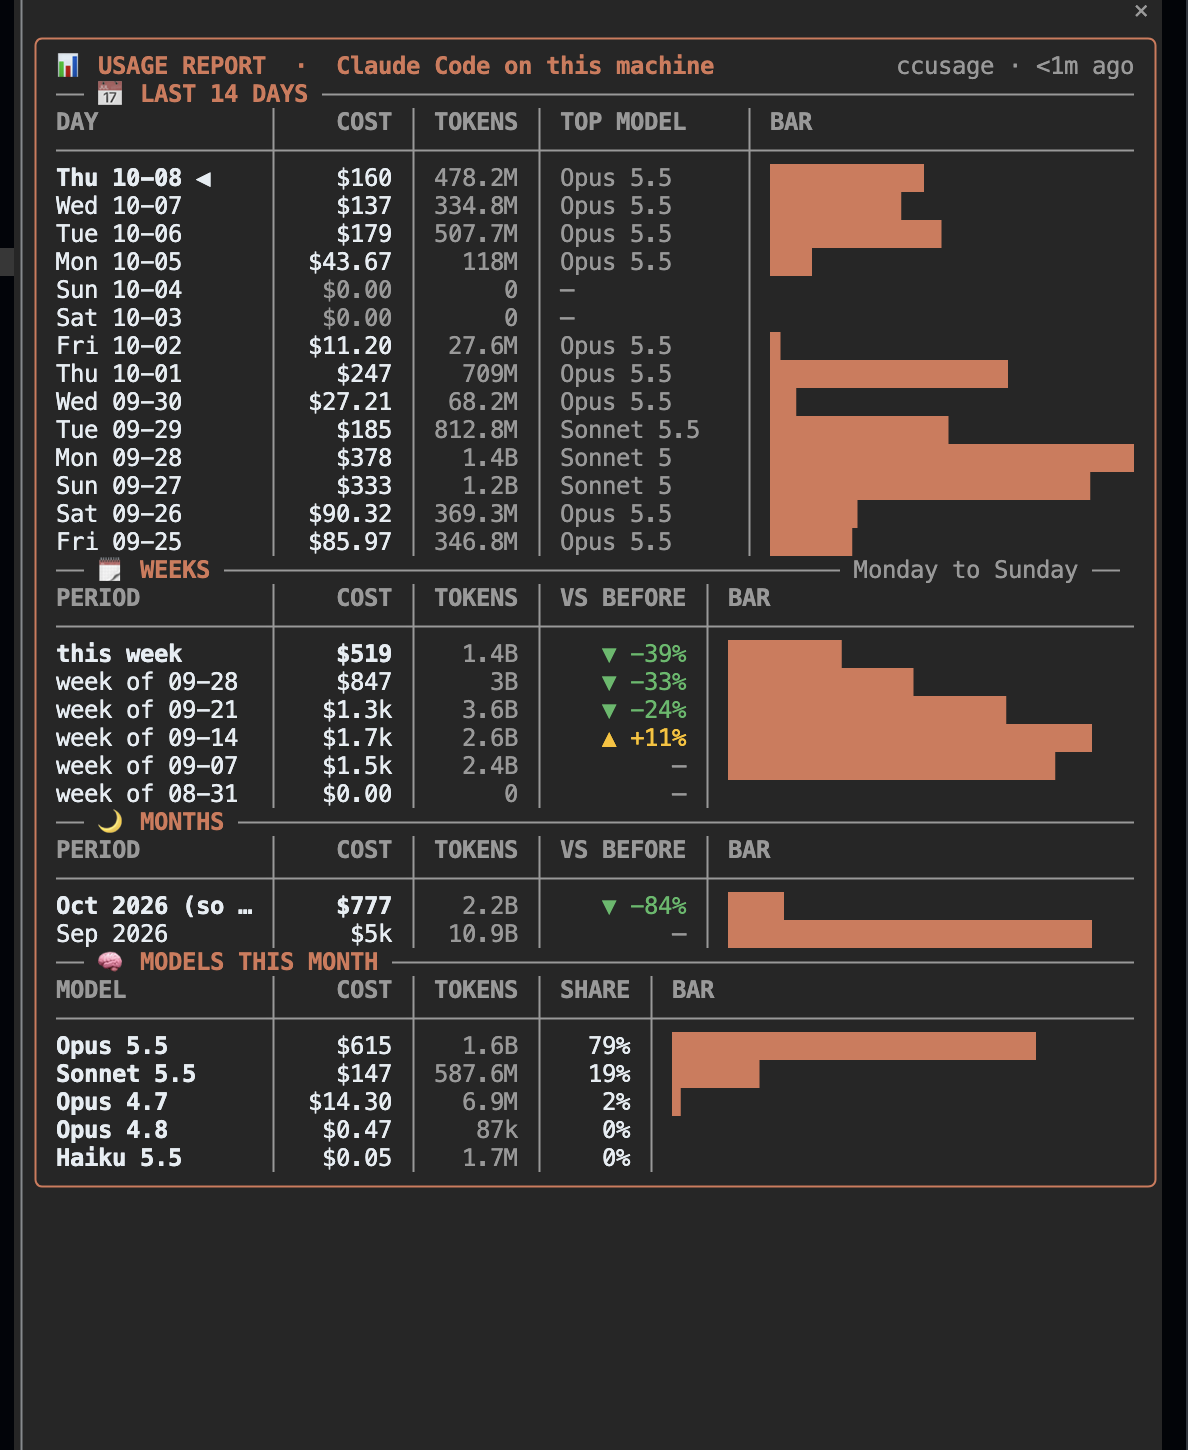
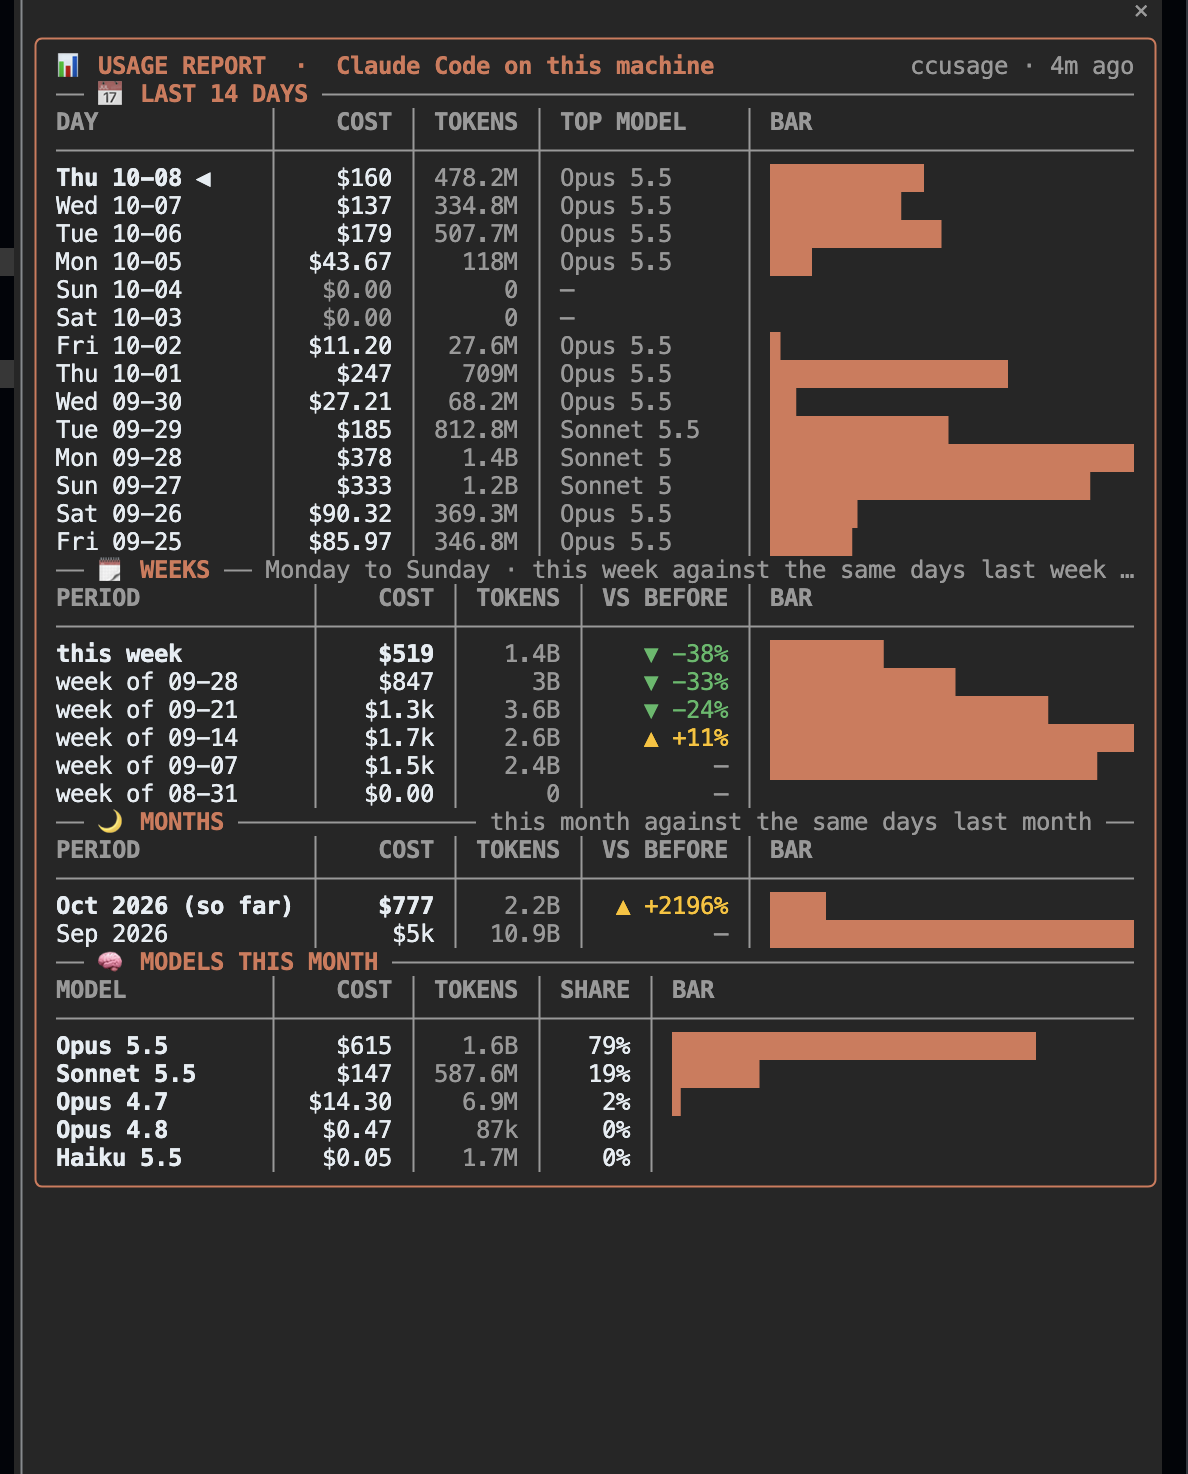
Vitals 0.7.3: i giorni prima dello storico non valgono zero
ccusage vede solo i transcript che Claude Code conserva (cleanupPeriodDays,
30 giorni di default): i giorni e le settimane prima del primo giorno con
dati mostrano "no data" invece di $0, e i periodi incompleti non vengono
confrontati, nel report come nella banda. Il report dice da quando partono
i dati e quando ccusage sta leggendo. Screenshot del report aggiornato.

Changed region(s): [[0.0, 0.031, 0.9655, 0.8069], [0.654, 0.1862, 0.9655, 0.3414]]

diff --git a/plugins/vitals/hooks/report-view.tsx b/plugins/vitals/hooks/report-view.tsx
@@ -1,6 +1,6 @@
 import type { HistoryProblem, UsageHistory } from '../types'
 import { ago, count, delta, money, prettyModel } from './format'
-import { REPORT_WEEKS, addDays, change, localDate, modelShares, monthSpans, periods, weekSpans } from './report'
+import { REPORT_WEEKS, addDays, change, firstDate, localDate, modelShares, monthSpans, periods, weekSpans } from './report'
 import { ACCENT, blocks, rule, table } from './ui'
 import type { Canvas, Cell, Column } from './ui'
 
@@ -46,13 +46,23 @@ const MODEL_COLUMNS: Column[] = [
 ]
 
 /** The usage report: the last 14 days, the last 6 weeks, this month and the last, and the models. */
-export const drawReport = (canvas: Canvas, room: number, now: number, history: UsageHistory | null, problem: HistoryProblem | null) => {
+export const drawReport = (
+  canvas: Canvas,
+  room: number,
+  now: number,
+  history: UsageHistory | null,
+  problem: HistoryProblem | null,
+  isReading: boolean,
+) => {
   const { Box, Text } = canvas.els
   const inner = room - FRAME_CELLS
   if (history === null) {
     return <Text dimColor>{problem === null ? 'Reading usage history…' : `No usage history: ${problem.reason}`}</Text>
   }
   const today = localDate(now)
+  // Days before the history's first one have no data at all: not zero spent, nothing known.
+  const first = firstDate(history.days) ?? today
+  const noData: Cell = { text: 'no data', dim: true }
   const barCells = Math.max(6, inner - 14 - 7 - 6 - 12 - 3 * 4)
   const byDate = new Map(history.days.map(d => [d.date, d]))
   const dates = Array.from({ length: 14 }, (_, i) => addDays(today, -i))
@@ -60,6 +70,7 @@ export const drawReport = (canvas: Canvas, room: number, now: number, history: U
   const dayRows = dates.map((date): Record<string, Cell> => {
     const day = byDate.get(date)
     const top = day?.models.slice().sort((a, b) => b.costUsd - a.costUsd)[0]
+    if (date < first) return { DAY: { text: `${weekday(date)} ${date.slice(5)}`, dim: true }, COST: noData }
     return {
       DAY: { text: `${weekday(date)} ${date.slice(5)}${date === today ? ' ◀' : ''}`, bold: date === today },
       COST: { text: money(day?.costUsd ?? 0), dim: day === undefined },
@@ -72,17 +83,26 @@ export const drawReport = (canvas: Canvas, room: number, now: number, history: U
   const [, thisWeek, thisMonth] = periods(history.days, today)
   const weeks = weekSpans(history.days, today, REPORT_WEEKS)
   const weekTop = Math.max(0, ...weeks.map(w => w.costUsd))
-  const weekRows = weeks.map((w, i): Record<string, Cell> => ({
-    PERIOD: { text: i === 0 ? 'this week' : `week of ${w.from.slice(5)}`, bold: i === 0 },
-    COST: { text: money(w.costUsd), bold: i === 0 },
-    TOKENS: { text: count(w.tokens), dim: true },
-    'VS BEFORE': deltaCell(w.costUsd, i === 0 ? thisWeek?.before?.costUsd : weeks[i + 1]?.costUsd),
-    BAR: barCell(w.costUsd, weekTop, barCells),
-  }))
+  const weekRows = weeks.map((w, i): Record<string, Cell> => {
+    const name = i === 0 ? 'this week' : `week of ${w.from.slice(5)}`
+    if (w.to < first) return { PERIOD: { text: name, dim: true }, COST: noData }
+    const before = weeks[i + 1]
+    const beforeCost = i === 0 ? thisWeek?.before?.costUsd : before !== undefined && before.from >= first ? before.costUsd : undefined
+    return {
+      PERIOD: { text: `${name}${w.from < first ? ` (from ${first.slice(5)})` : ''}`, bold: i === 0 },
+      COST: { text: money(w.costUsd), bold: i === 0 },
+      TOKENS: { text: count(w.tokens), dim: true },
+      'VS BEFORE': w.from < first ? { text: '—', dim: true } : deltaCell(w.costUsd, beforeCost),
+      BAR: barCell(w.costUsd, weekTop, barCells),
+    }
+  })
   const months = monthSpans(history.days, today)
   const monthTop = Math.max(0, ...months.map(m => m.costUsd))
   const monthRows = months.map((m, i): Record<string, Cell> => ({
-    PERIOD: { text: `${MONTHS[Number(m.from.slice(5, 7)) - 1] ?? m.from} ${m.from.slice(0, 4)}${i === 0 ? ' (so far)' : ''}`, bold: i === 0 },
+    PERIOD: {
+      text: `${MONTHS[Number(m.from.slice(5, 7)) - 1] ?? m.from} ${m.from.slice(0, 4)}${i === 0 ? ' (so far)' : m.from < first ? ` (from ${first.slice(5)})` : ''}`,
+      bold: i === 0,
+    },
     COST: { text: money(m.costUsd), bold: i === 0 },
     TOKENS: { text: count(m.tokens), dim: true },
     'VS BEFORE': i === 0 ? deltaCell(m.costUsd, thisMonth?.before?.costUsd) : { text: '—', dim: true },
@@ -102,7 +122,9 @@ export const drawReport = (canvas: Canvas, room: number, now: number, history: U
     <Box flexDirection="column" borderStyle="round" borderColor={ACCENT} paddingX={1}>
       <Box flexDirection="row" justifyContent="space-between">
         <Text bold color={ACCENT}>{'📊 USAGE REPORT  ·  Claude Code on this machine'}</Text>
-        <Text dimColor>{`ccusage · ${ago(now - history.at)} ago${problem !== null && problem.at > history.at ? ' · ⚠ stale' : ''}`}</Text>
+        <Text dimColor>
+          {`ccusage · data from ${first.slice(5)} · ${isReading ? 'reading…' : `${ago(now - history.at)} ago`}${problem !== null && problem.at > history.at ? ' · ⚠ stale' : ''}`}
+        </Text>
       </Box>
       {rule(canvas.els, '📅 LAST 14 DAYS', '', inner)}
       {table(canvas.els, DAY_COLUMNS, dayRows, inner)}

diff --git a/plugins/vitals/hooks/report.ts b/plugins/vitals/hooks/report.ts
@@ -120,7 +120,13 @@ export type Period = { name: string; now: Span; before: Span | null; from: strin
  * Today against yesterday, this week against last week's same days, this month against last
  * month's same days: the comparison is like for like however far into the period we are.
  */
+/** The first day the history holds: Claude Code keeps transcripts for `cleanupPeriodDays` (30 by default). */
+export const firstDate = (days: DayUsage[]) => days.reduce<string | null>((first, d) => (first === null || d.date < first ? d.date : first), null)
+
 export const periods = (days: DayUsage[], today: string): Period[] => {
+  // A period that starts before the history does is not known, so it is not compared against.
+  const first = firstDate(days)
+  const known = (from: string, to: string) => (first === null || from < first ? null : span(days, from, to))
   const week = weekStart(today)
   const intoWeek = Math.round((Date.parse(today) - Date.parse(week)) / 86_400_000)
   const month = monthStart(today)
@@ -128,9 +134,9 @@ export const periods = (days: DayUsage[], today: string): Period[] => {
   const intoMonth = Number(today.slice(8, 10)) - 1
   const lastMonthSame = addDays(lastMonth, intoMonth) < month ? addDays(lastMonth, intoMonth) : addDays(month, -1)
   return [
-    { name: 'today', now: span(days, today, today), before: span(days, addDays(today, -1), addDays(today, -1)), from: today, to: today },
-    { name: 'week', now: span(days, week, today), before: span(days, addDays(week, -7), addDays(week, intoWeek - 7)), from: week, to: today },
-    { name: 'month', now: span(days, month, today), before: span(days, lastMonth, lastMonthSame), from: month, to: today },
+    { name: 'today', now: span(days, today, today), before: known(addDays(today, -1), addDays(today, -1)), from: today, to: today },
+    { name: 'week', now: span(days, week, today), before: known(addDays(week, -7), addDays(week, intoWeek - 7)), from: week, to: today },
+    { name: 'month', now: span(days, month, today), before: known(lastMonth, lastMonthSame), from: month, to: today },
   ]
 }
 

diff --git a/plugins/vitals/hooks/vitals.test.tsx b/plugins/vitals/hooks/vitals.test.tsx
@@ -236,7 +236,7 @@ test('ccusage days fold into today, week and month against the same days before'
   expect(week?.now.costUsd).toBe(100)
   expect(week?.before?.costUsd).toBe(40) // Mon 28 Sep to Thu 1 Oct, not Fri 2 Oct's 99
   expect(month?.now.costUsd).toBe(219)
-  expect(month?.before?.costUsd).toBe(0) // 1 to 8 September: the September days on record are later
+  expect(month?.before).toBe(null) // 1 to 8 September comes before the history's first day: unknown, not zero
 })
 
 for (const surface of ['terminal', 'desktop'] as const) {
@@ -348,6 +348,8 @@ for (const surface of ['terminal', 'desktop'] as const) {
     const ui = await $.ui.mount({ plugin: 'vitals', surface, component: 'Pane', requestId: 'vitals-report', props: { title: 'r', isFocused: false, bodyColumns: 120, placement: 'dock' as const, scroll: { offset: 0, bodyRows: 60 }, view: {} } })
     const pane = (await ui.find({ text: /./ }))?.text ?? ''
     for (const text of ['📊 USAGE REPORT', 'Thu 10-08 ◀', '$50.00', 'this week', '▲ +150%', 'Oct 2026 (so far)', 'Sonnet 5.5']) expect(pane).toContain(text)
+    // The history starts on 28 September: earlier days and weeks are unknown, not zero.
+    for (const text of ['data from 09-28', 'Fri 09-25', 'no data', 'Sep 2026 (from 09-28)']) expect(pane).toContain(text)
   })
 }
 

diff --git a/plugins/vitals/hooks/register.tsx b/plugins/vitals/hooks/register.tsx
@@ -157,6 +157,7 @@ async function refreshHistory($: EngineInterface, isForced: boolean) {
   if (!isForced && held !== null && now - held.at < HISTORY_EVERY_MS) return
 
   isReadingHistory = true
+  $.ui.invalidate('ui.render')
   try {
     const ran = await $.process.run(['ccusage', 'claude', 'daily', '--json', '--since', historySince(localDate(now))], { timeoutMs: 60_000 })
     const days = ran.exitCode === 0 ? parseDaily(ran.stdout) : null
@@ -469,6 +470,6 @@ export const register: Register = (on, options) => {
     const canvas = { els: $.ui.resolve(e), surface: e.surface }
     const [now, past, problem] = await Promise.all([$.clock.now(), read($, history), read($, historyProblem)])
 
-    return drawReport(canvas, e.props.bodyColumns, now, past, problem)
+    return drawReport(canvas, e.props.bodyColumns, now, past, problem, isReadingHistory)
   })
 }

diff --git a/README.md b/README.md
@@ -131,6 +131,7 @@ To update by hand (without auto-update): `claude plugin marketplace update naicu
 | Symptom | Cause and fix |
 | :-- | :-- |
 | `📊 USAGE no history: ccusage not found` | ccusage is not on the `PATH` Claude Code was started with: install it, restart Claude Code |
+| Usage report shows `no data` for older days | Claude Code deletes transcripts after `cleanupPeriodDays` (30 by default), so ccusage, and the report, only reach that far back. Raise it in `~/.claude/settings.json` (`"cleanupPeriodDays": 365`) to keep a longer history, at the cost of disk space. Periods that start before the first day on record are not compared against |
 | Usage costs look too low | ccusage could not reach its price list and priced new models at zero: run `ccusage claude daily` once online |
 | One line per section instead of tables | The band has few rows (a short terminal, or Claude's progress is taking them): make the terminal taller, or `/vitals pane` for everything in full |
 | No band at all | Claude Code older than v2.1.287, the plugin disabled (`claude plugin list`), or `/vitals` switched it to the compact line: run `/vitals` again |
